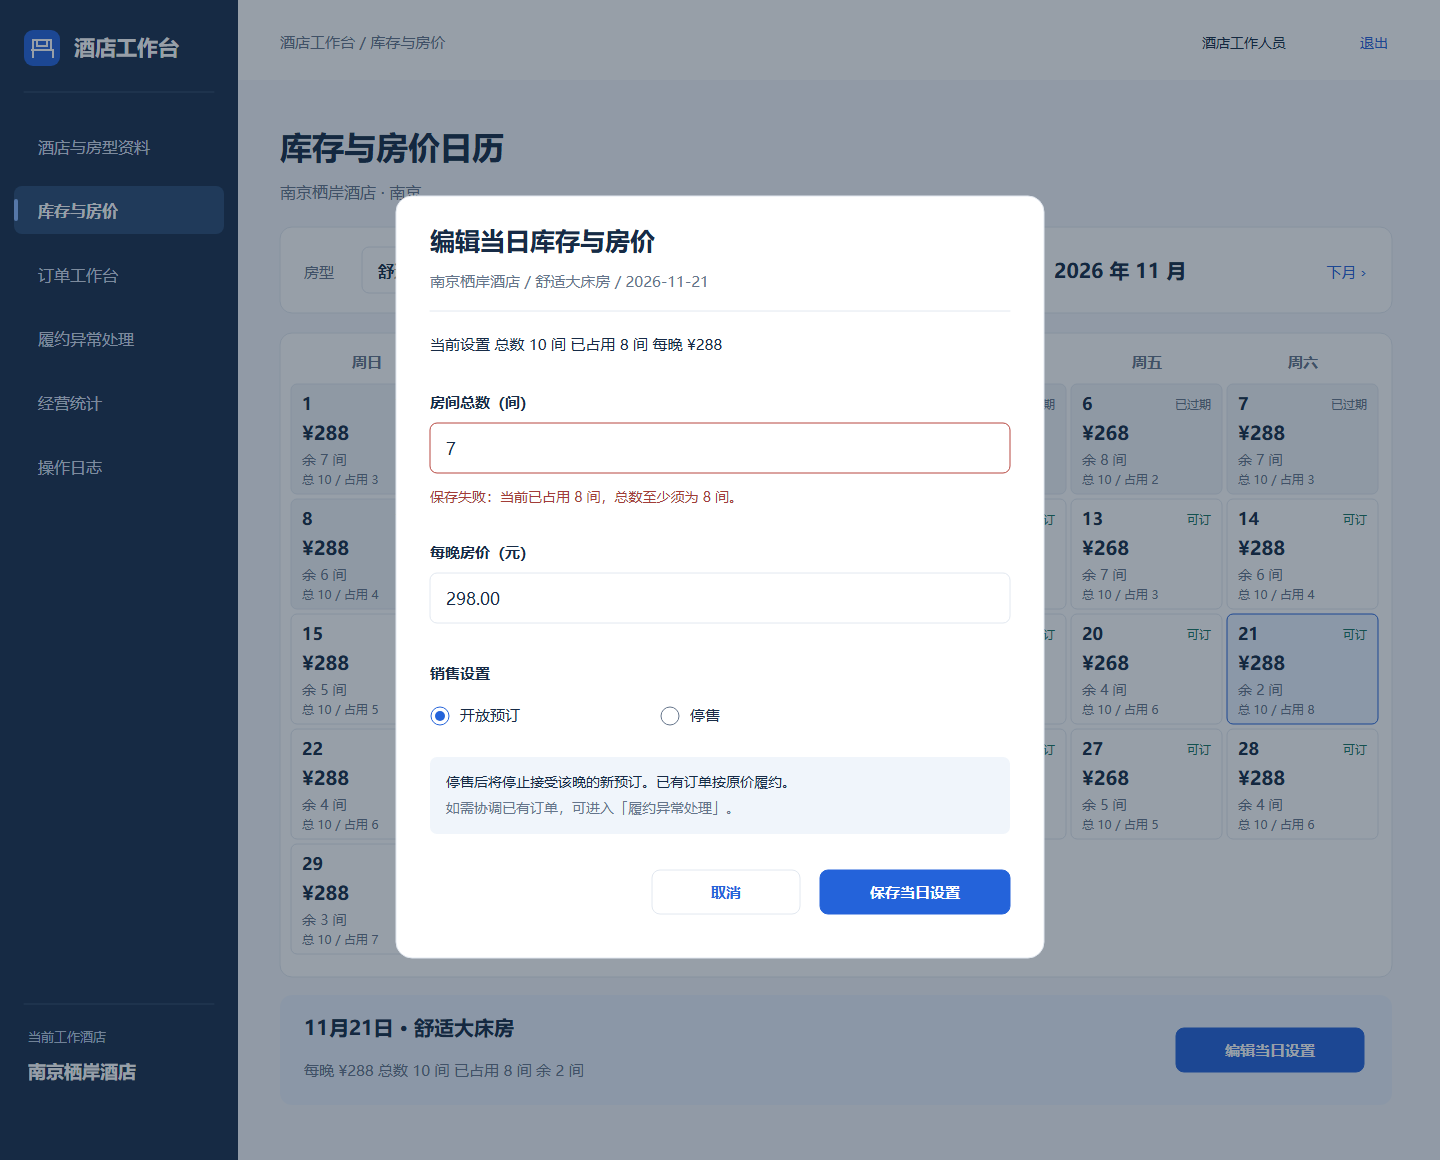
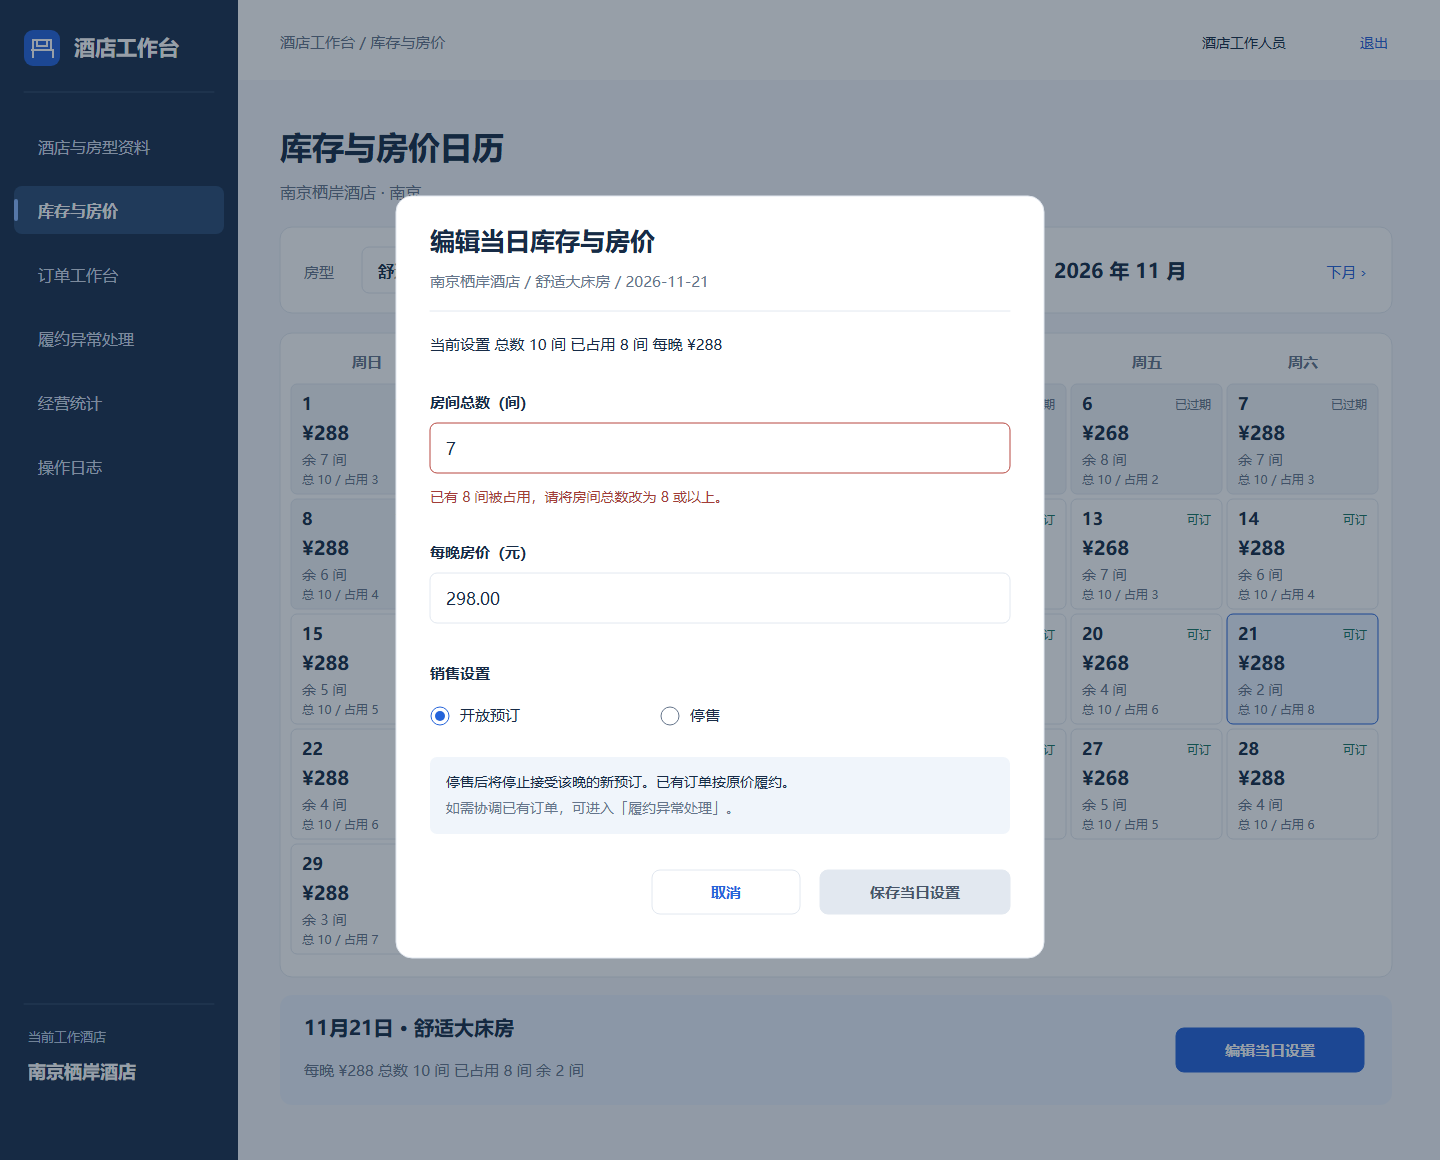
UI10：库存总数低于已占用量时将保存按钮置灰并提示最小值

Changed region(s): [[0.5625, 0.7448, 0.7188, 0.8069], [0.2812, 0.4034, 0.5, 0.4345]]

diff --git a/实验二/03-UI页面清单与样式.md b/实验二/03-UI页面清单与样式.md
@@ -1,6 +1,6 @@
 # 酒店预订系统UI页面清单与统一样式
 
-版本 V0.13（按审阅意见修订）
+版本 V0.14（UI10 库存输入校验修订）
 
 2026-11-11 更新。UI01 至 UI16 的主要页面及关键状态已绘制为桌面浏览器静态设计稿。
 
@@ -17,7 +17,7 @@
 | UI07 | 修改预订 | 顾客，M05 | 新旧方案对照确认；人数联系方式独立编辑；旧页面冲突反馈 | 初稿完成，含新旧方案确认、仅修改信息；冲突反馈已写约定 |
 | UI08 | 消息通知 | 顾客，M08 | 当时处理结果、原因、时间、当前订单入口 | 初稿完成，含历史通知和暂无通知 |
 | UI09 | 酒店与房型资料 | 工作人员，M02 | 本店资料、房型列表及编辑表单 | 初稿完成，三张画稿 |
-| UI10 | 库存房价日历 | 工作人员，M03 | 逐日总数、已占用、余量、价格、停售与保存校验 | 初稿完成，含单日编辑及库存冲突 |
+| UI10 | 库存房价日历 | 工作人员，M03 | 逐日总数、已占用、余量、价格、停售与保存校验 | 含单日编辑及总数低于已占用量时的禁用状态 |
 | UI11 | 酒店订单工作台 | 工作人员，M05/M06 | 日期房型状态筛选，订单详情、确认拒绝、入住退房及原因输入 | 初稿完成，含四种办理弹窗 |
 | UI12 | 履约异常处理 | 工作人员/管理员，M07 | 受影响范围、订单、沟通记录、按角色办理 | 初稿完成，5张 |
 | UI13 | 经营统计 | 工作人员，M09 | 六种订单状态、逐日余房与预订金额 | 初稿完成，1张 |
@@ -264,7 +264,7 @@ UI04共四张静态SVG/PNG设计稿。上述点击、输入校验、焦点管理
 |---|---|
 | 10_库存与房价日历.png | 点击日期后，下方显示该晚明细及编辑入口。11 月 18 日已售罄，24 日还有 6 间余房但已停售。过去日期保留历史供查询。 |
 | 10_库存与房价日历_单日编辑.png | 21 日原有 10 间，已占用 8 间，每晚 288 元。将总数调至 12 间、新价设为 298 元时，预计余房为 4 间。可同时设置开放预订或停售。 |
-| 10_库存与房价日历_库存校验.png | 当总数填为 7 间时，表单指出当晚已有 8 间被占用并提示允许的最小值。整次保存失败，月历继续显示原设置。 |
+| 10_库存与房价日历_库存校验.png | 当晚已占用 8 间。填入 7 间时，输入框下提示最小值，“保存当日设置”显示为灰色并禁用。改为 8 间且其他字段合法时可保存，预计余房为 0 间。 |
 
 实现约定：总数须为非负整数，房价须大于零且最多两位小数。保存时按酒店归属校验权限，锁定房型与住宿日期对应的唯一记录，以最新占用数重新校验并统一保存。已占用量从订单预留读取。新价格用于后续报价，历史订单保留下单时的价格快照。停售期间释放的库存仍受停售标记约束，过去日期仅供查询。无法履约的既有订单进入 UI12 协调处理。三张画稿使用独立的月历示例，保存与库存联动在实现阶段验证。
 
